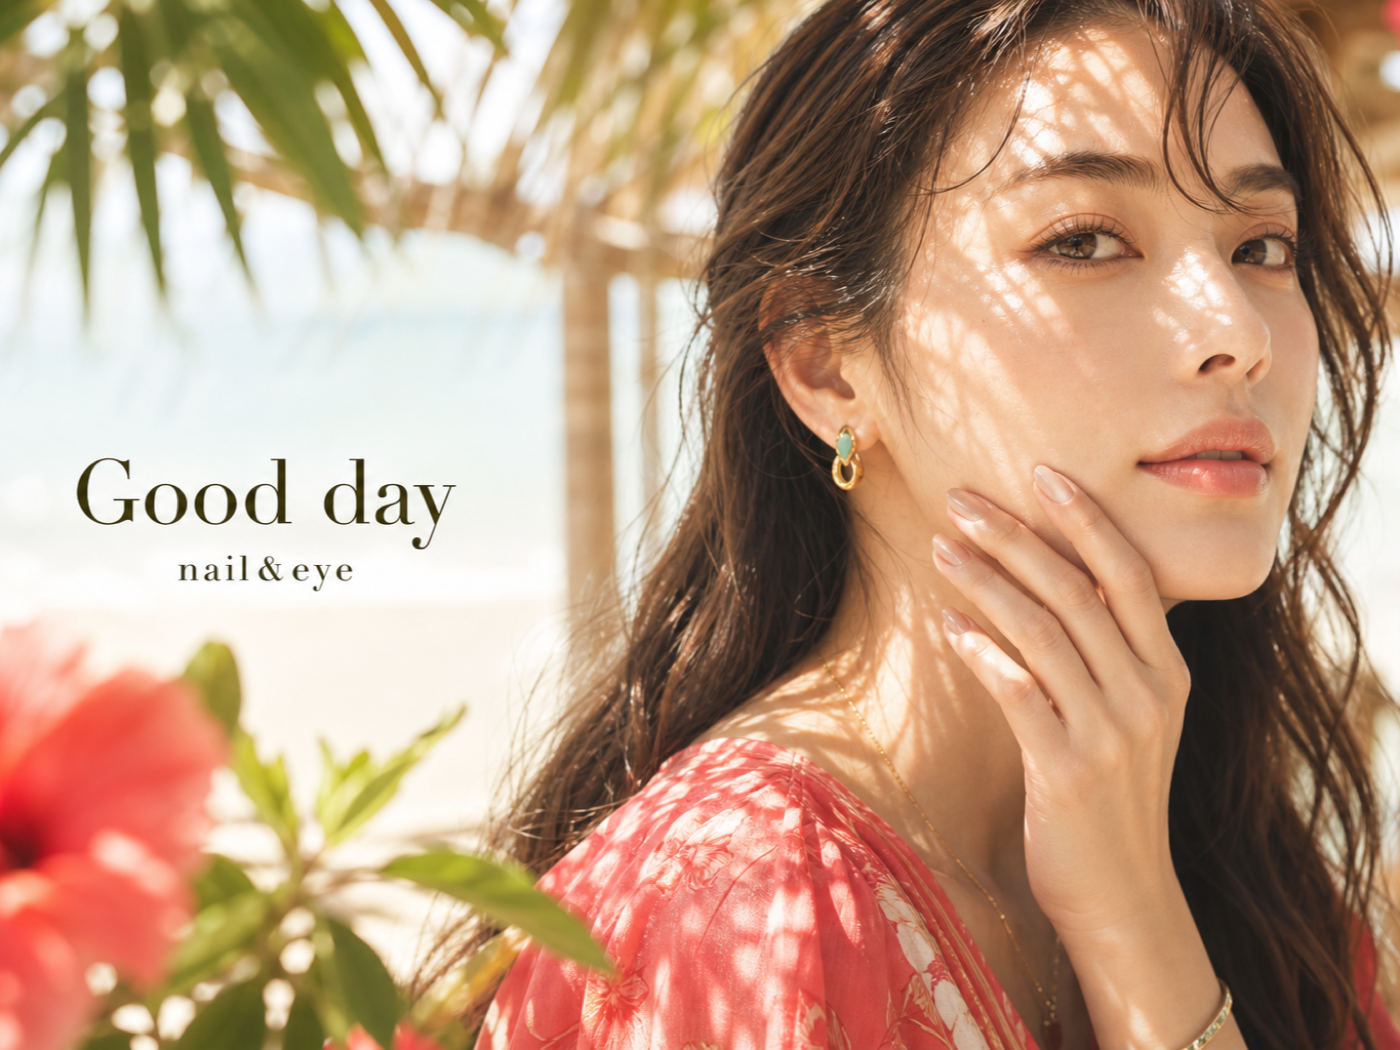
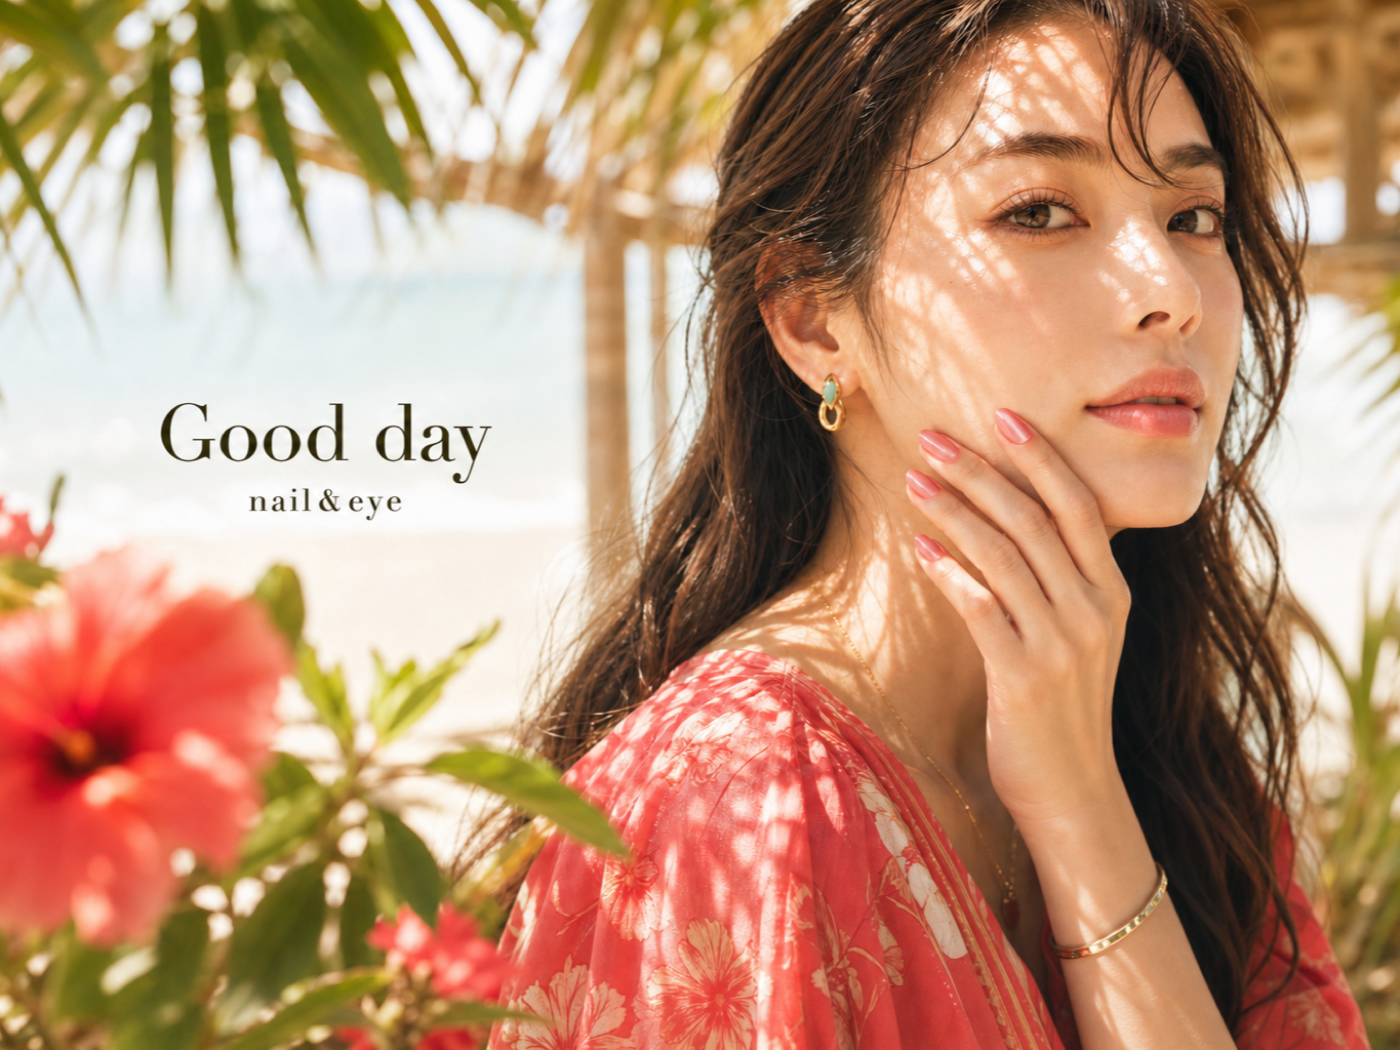
①キービジュアルをマグネットネイル版に確定
顎添え横顔プロフィール構図はそのまま、ネイルデザインをマグネットネイル(薄い赤系)に確定。
旧版(通常ネイル)はold/へ退避、hero_magnet_nail.pngは確定版に統合したため削除。
一覧比較ページも確定版1枚表示に更新。

diff --git a/index.html b/index.html
@@ -110,11 +110,7 @@
     <div class="grid wide">
       <figure>
         <img src="2026-08/01_hero/hero.png" alt="キービジュアル（確定版）">
-        <figcaption>確定版（顎添え横顔プロフィール）</figcaption>
-      </figure>
-      <figure>
-        <img src="2026-08/01_hero/hero_magnet_nail.png" alt="キービジュアル（マグネットネイル版）">
-        <figcaption>バリエーション（マグネットネイル・薄い赤系）</figcaption>
+        <figcaption>確定版（顎添え横顔プロフィール・マグネットネイル）</figcaption>
       </figure>
     </div>
   </section>
